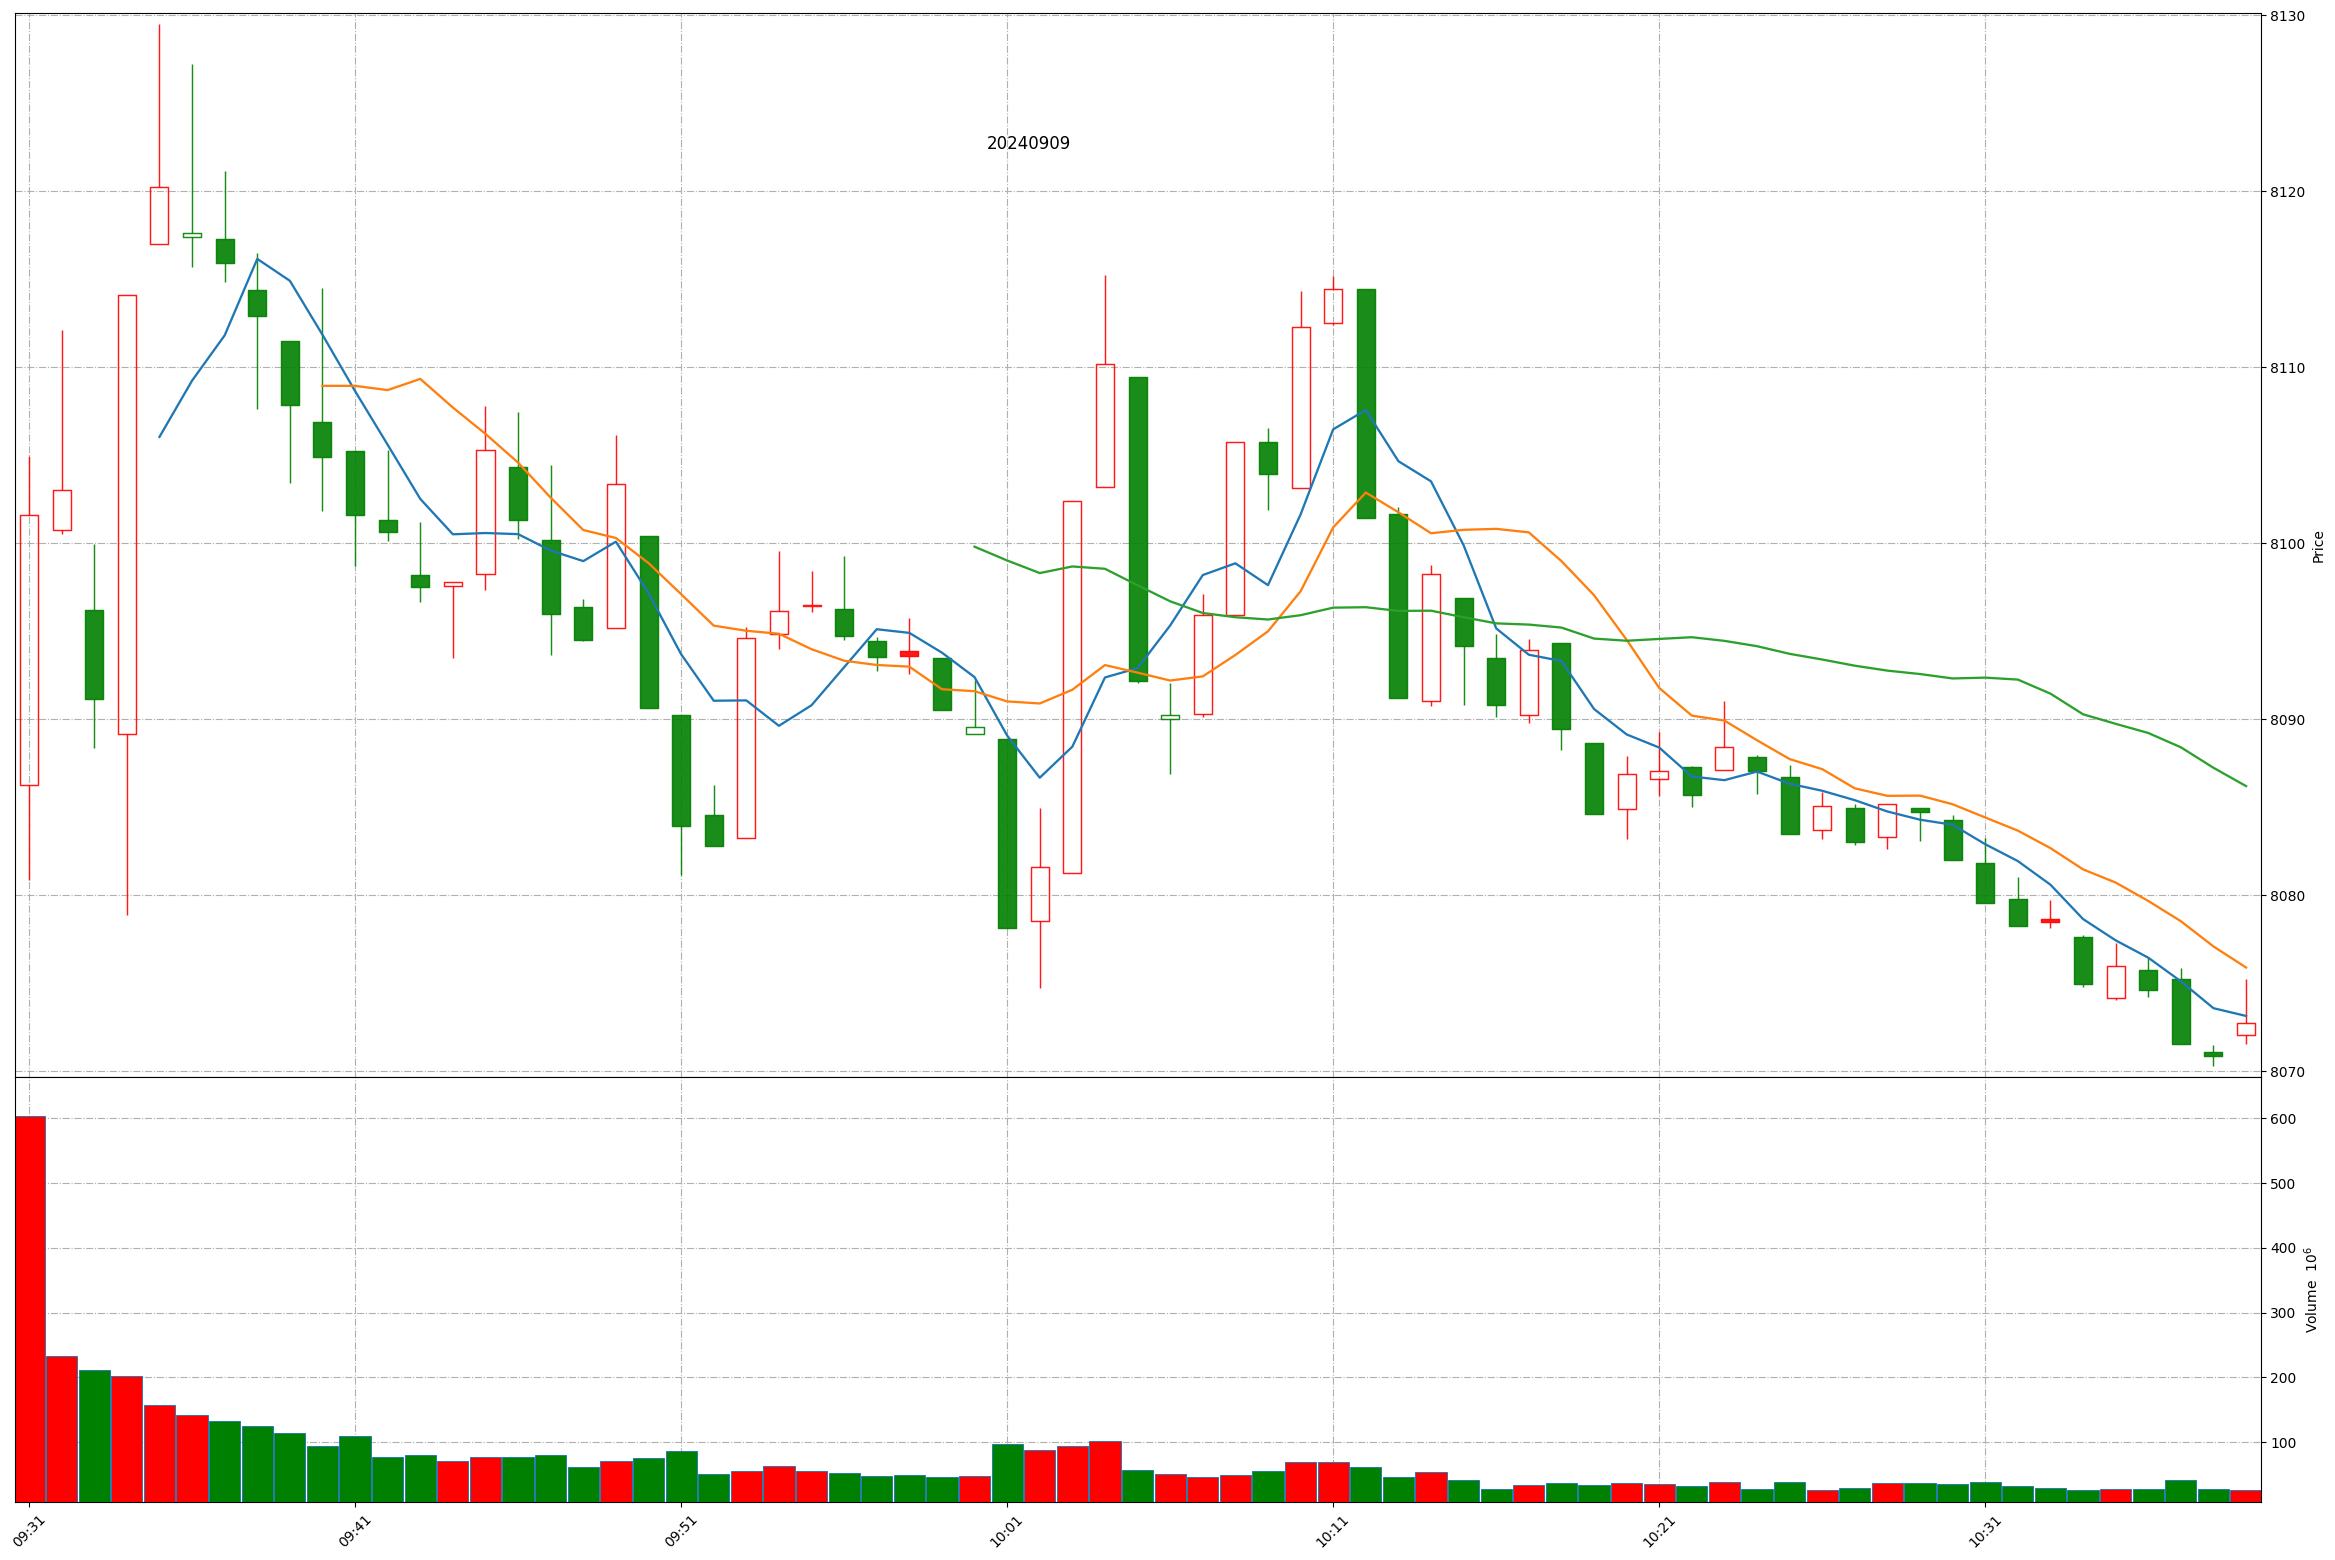
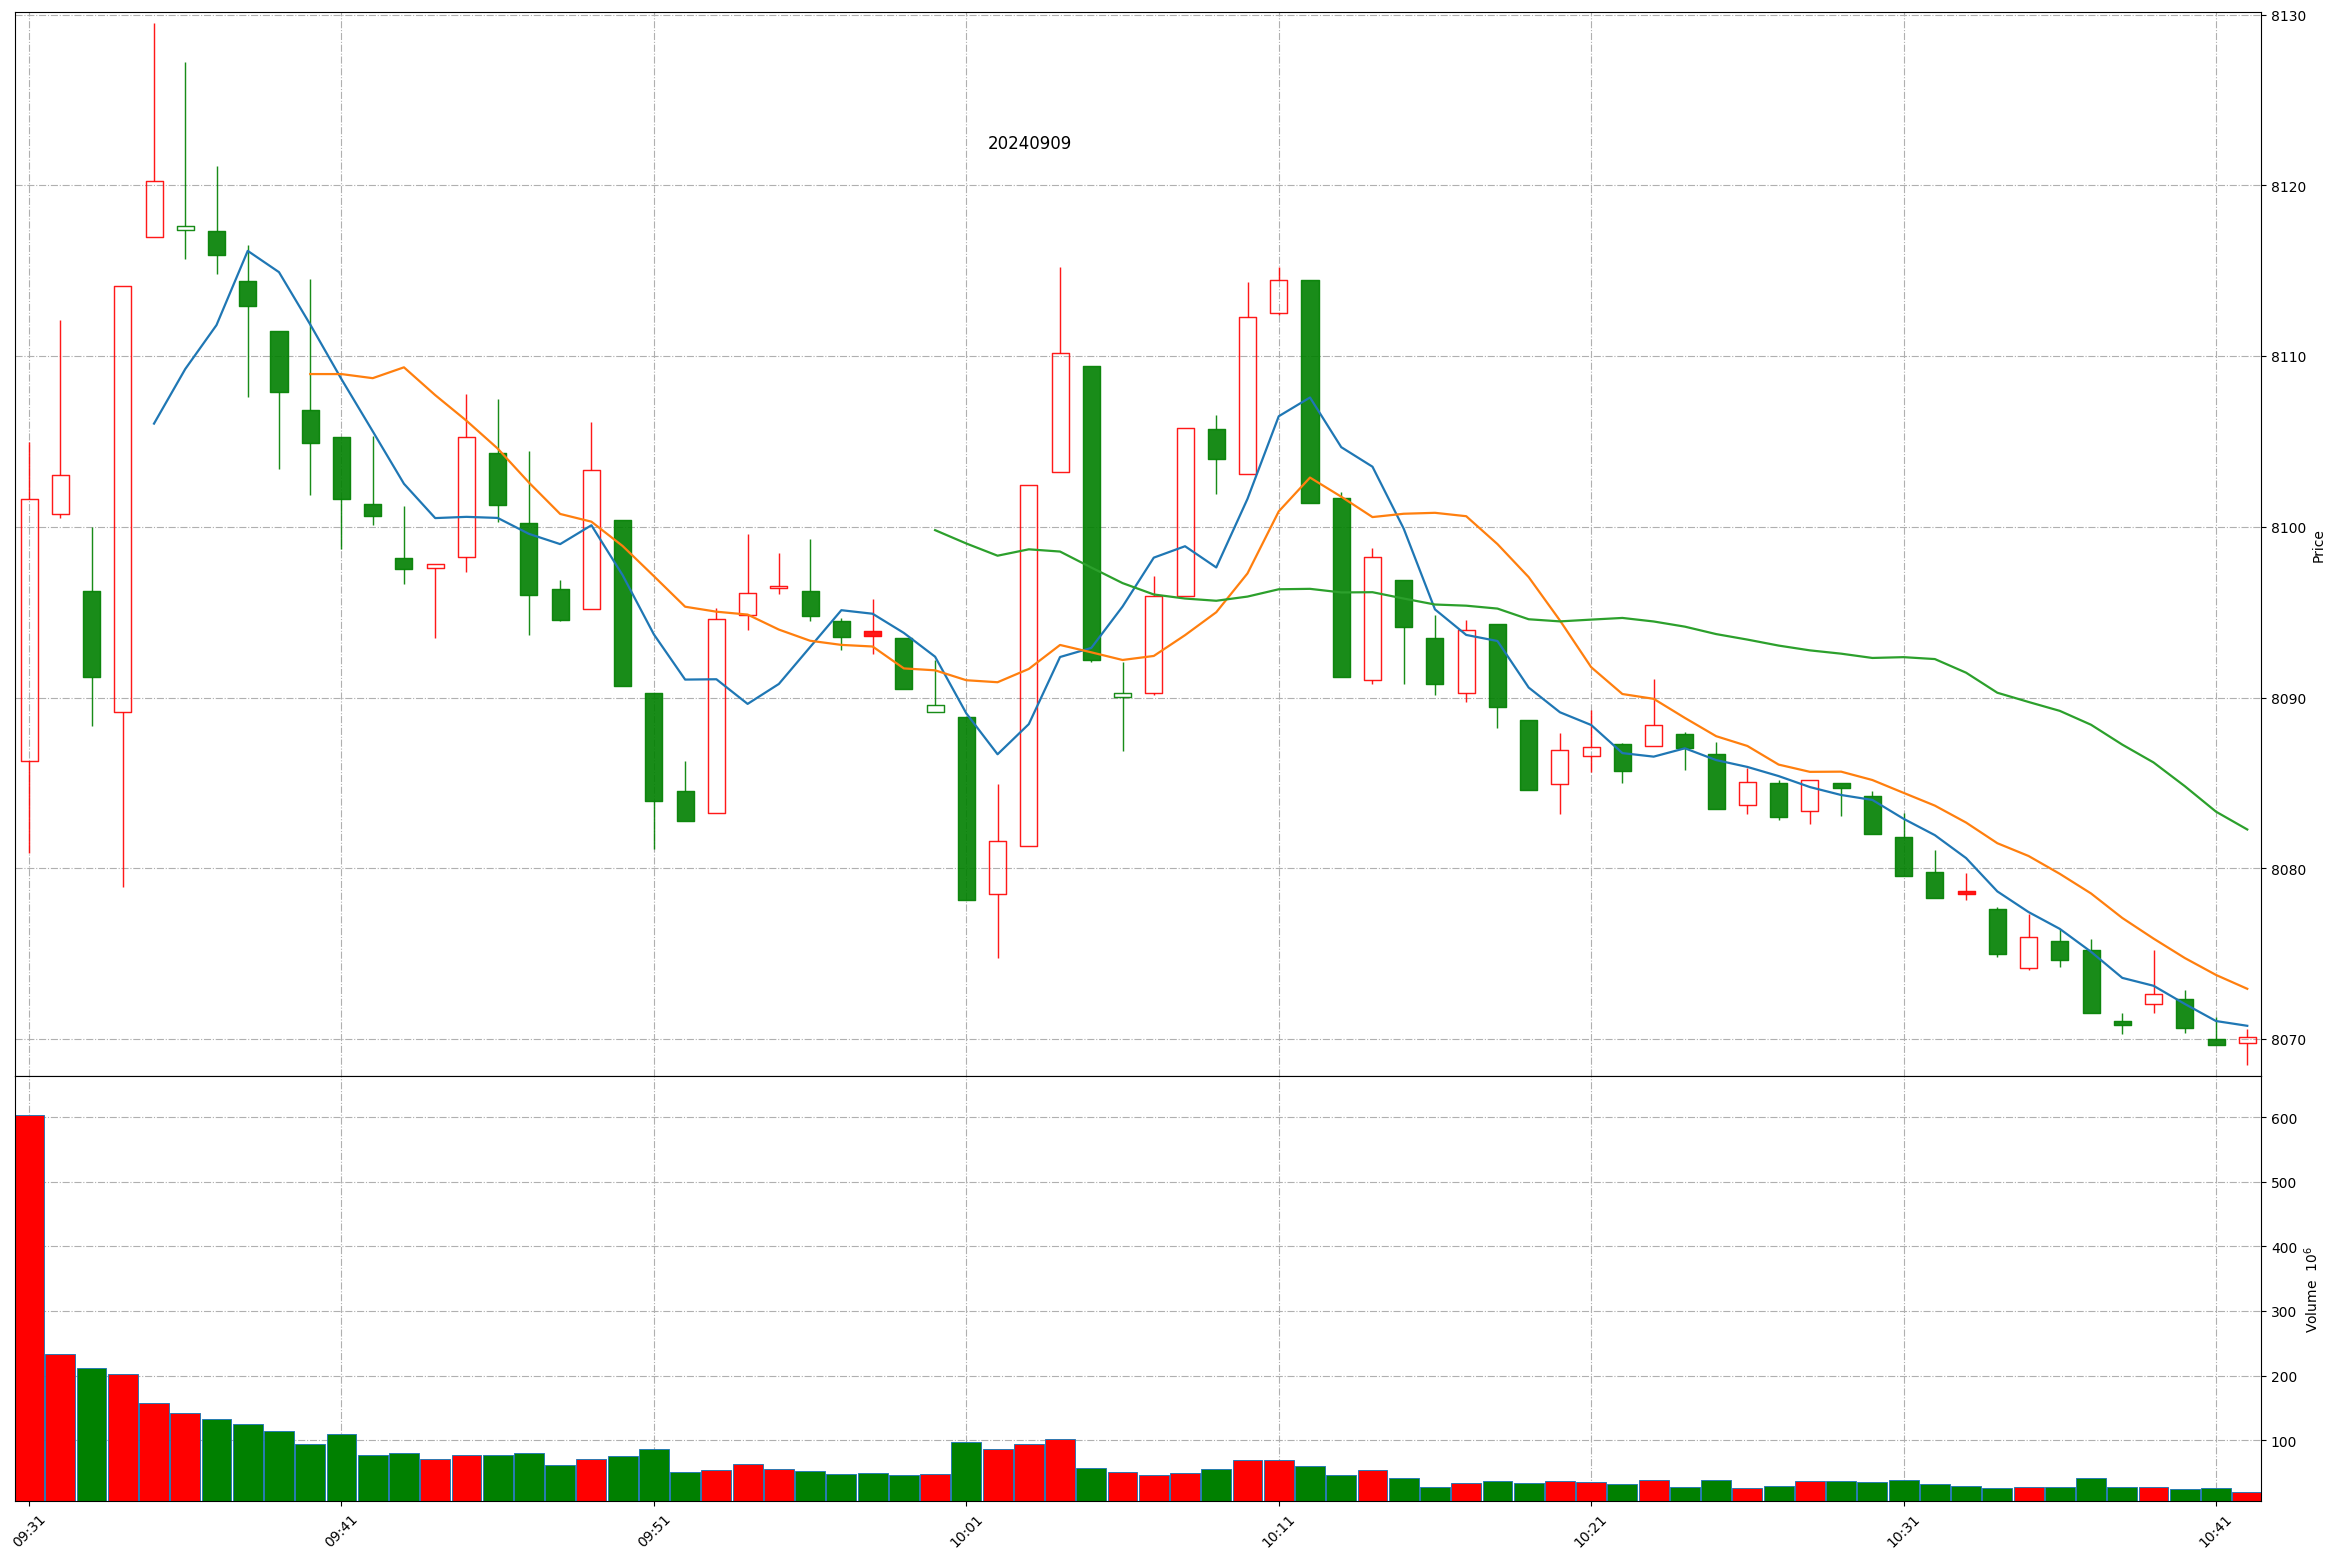
Github action update at 2024-09-09 10:41:45.

diff --git a/README.md b/README.md
@@ -1,11 +1,11 @@
 
 # Daily-A-share-market-quotes 每日 A 股指数（5min 更新）- 20240909
 
-### 上证指数 20240909 10:39
+### 上证指数 20240909 10:41
 ![](./fig/2024/9/20240909-sh000001.png)
 
-### 深证成指 20240909 10:39
+### 深证成指 20240909 10:41
 ![](./fig/2024/9/20240909-sz399001.png)
 
-### 北证50 20240909 10:39
+### 北证50 20240909 10:41
 ![](./fig/2024/9/20240909-bj899050.png)
